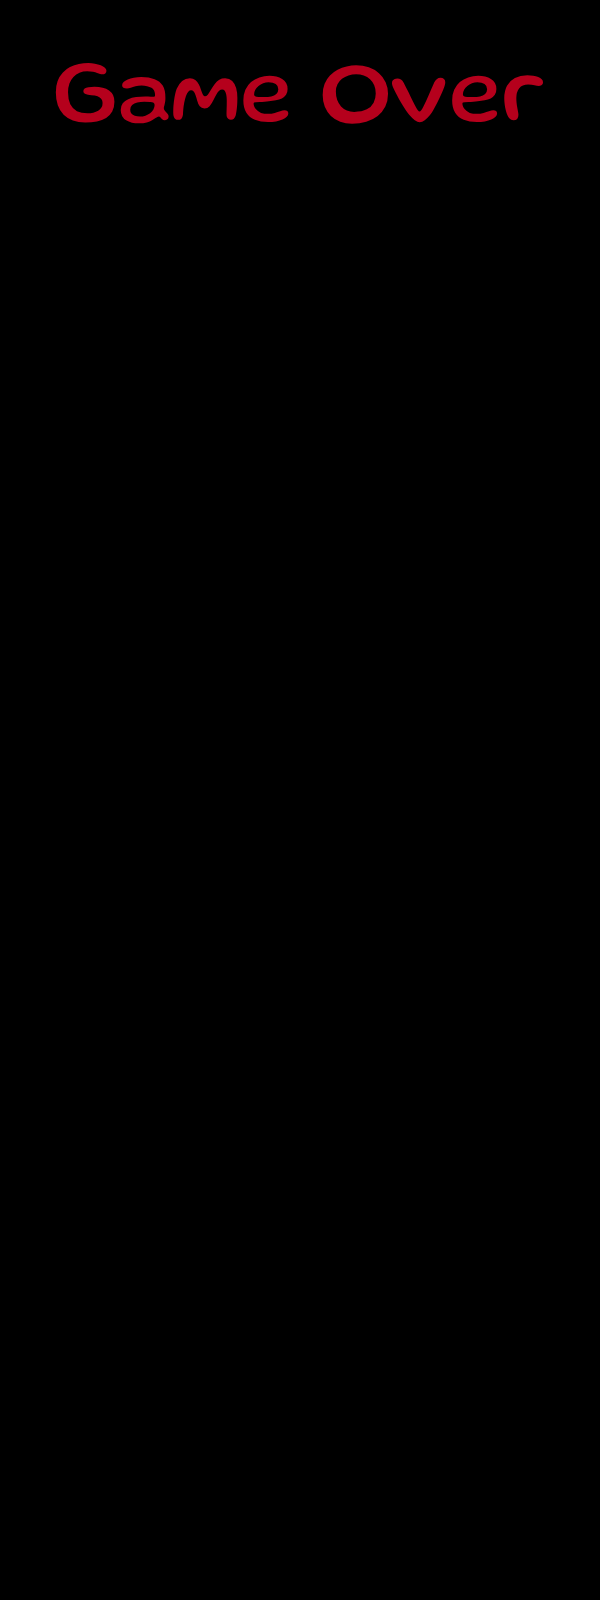
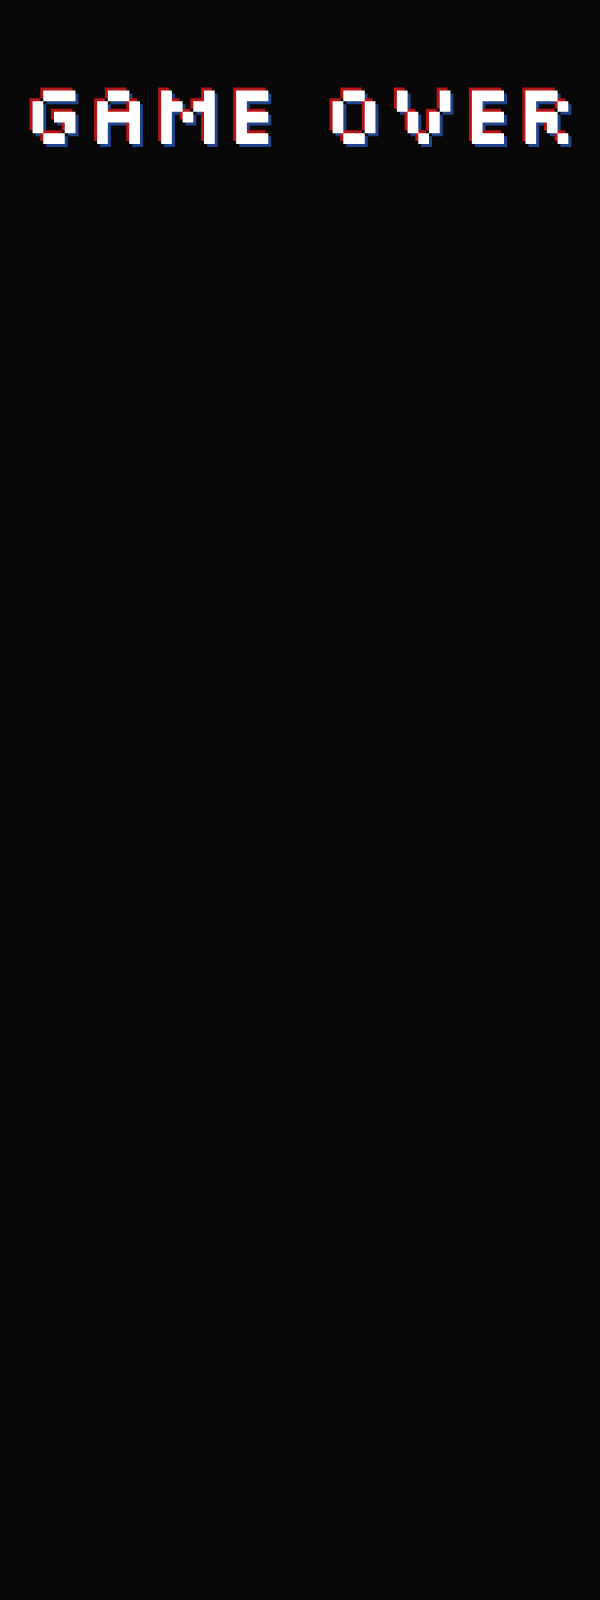
GameOver Design Change 1

Changed region(s): [[0.03, 0.0312, 0.48, 0.0938], [0.54, 0.0312, 0.96, 0.0938]]

diff --git a/GameOver.java b/GameOver.java
@@ -9,12 +9,11 @@ public class GameOver {
     private int scoreValue = 0, highScoreValue = 0;
     private Text highScore;
     Ufo ufo;
-    private int yyyy = 0;
 
     GameOver(Ufo pUfo) {
         gameOver = new Picture(0 - 300, 0, 300, 800, "GameOver.png");
-        playAgain = new Picture(50 - 300, 475, 200, 100 - yyyy, "PlayAgain.png");
-        quit = new Picture(50 - 300, 600, 200, 100 - yyyy, "quit.png");
+        playAgain = new Picture(25 - 300, 500, 250, 62.5, "retry.png");
+        quit = new Picture(25 - 300, 600, 250, 62.5, "quit.png");
         score = new Text(30 - 300, 100, "Score: " + scoreValue, Color.WHITE);
         highScore = new Text(30 - 300, 130, "High Score: " + highScoreValue, Color.WHITE);
         ufo = pUfo;

diff --git a/Astroid.java b/Astroid.java
@@ -100,5 +100,4 @@ public class Astroid {
     public String getAverageColour() {
         return averageColour;
     }
-
 }
